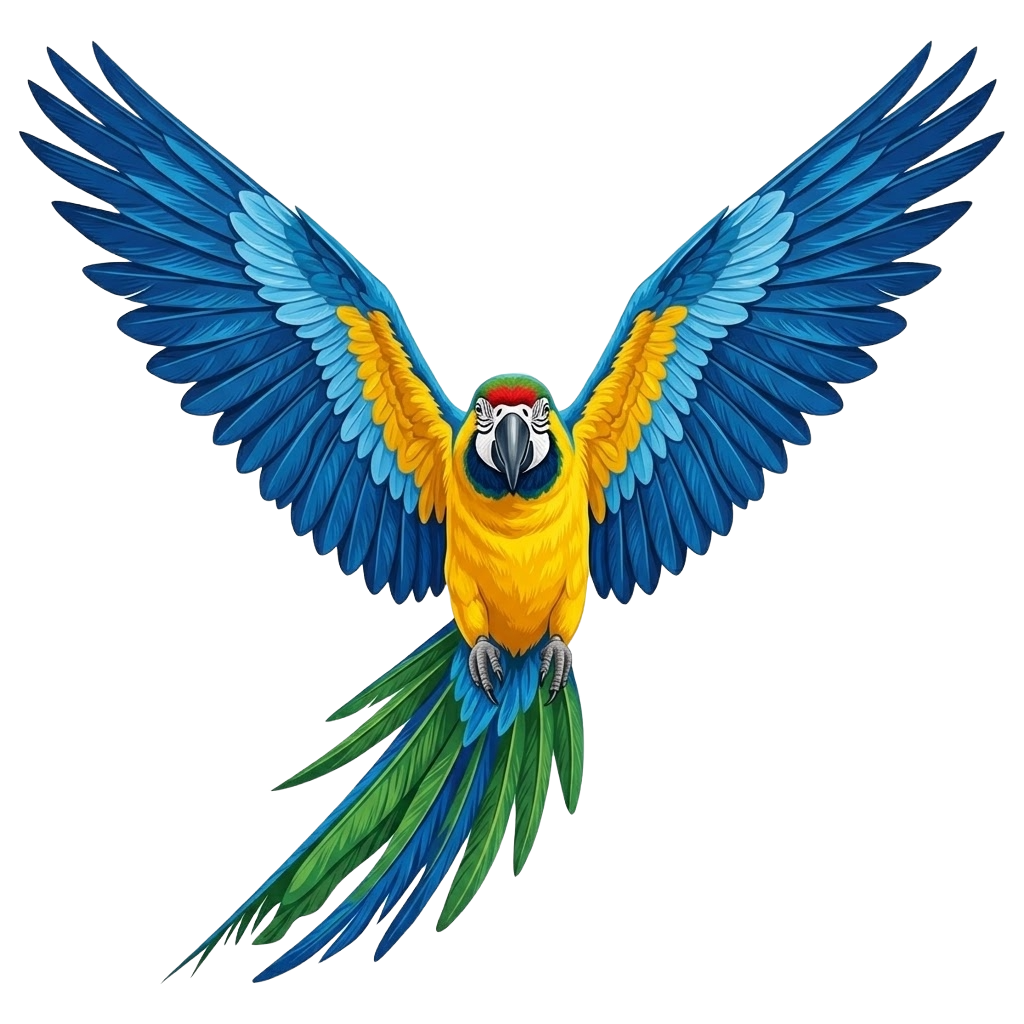
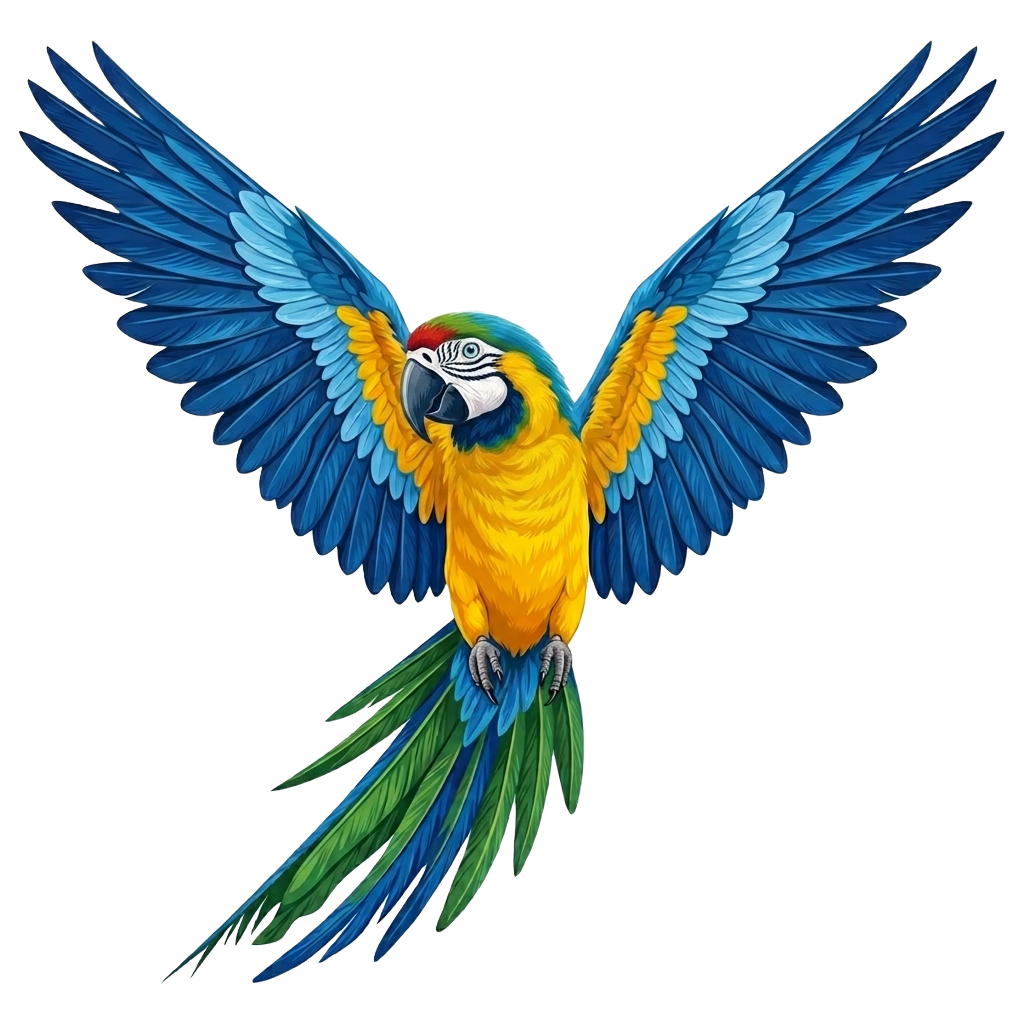
Ajustes

Changed region(s): [[0.375, 0.2812, 0.625, 0.5312], [0.5312, 0.625, 0.5625, 0.6875], [0.4688, 0.625, 0.5, 0.6562]]

diff --git a/OLD-06AGOindex.html b/OLD-06AGOindex.html
@@ -576,10 +576,6 @@
       background:linear-gradient(135deg,#ede9fe,#fce7f3,#e0f2fe);
     }
 
-    .atajo-semillas .atajo-icono{
-      background:linear-gradient(135deg,#dcfce7,#e0f2fe,#ede9fe);
-    }
-
     .atajo-proximo .atajo-icono{
       background:#f8fafc;
     }
@@ -1119,20 +1115,20 @@
             <span class="atajo-flecha">→</span>
           </a>
 
+          <a class="atajo atajo-pro atajo-escritora" href="mi-universo/escritora/">
+            <span class="atajo-icono">✍</span>
+            <span class="atajo-texto">
+              <strong>Mi Rincón de Escritura</strong>
+              <small>Crear y guardar historias</small>
+            </span>
+            <span class="atajo-flecha">→</span>
+          </a>
+
           <a class="atajo atajo-pro atajo-biblioteca" href="mi-universo/biblioteca/">
             <span class="atajo-icono">📚</span>
             <span class="atajo-texto">
               <strong>Biblioteca Encantada</strong>
               <small>Registrar libros y reseñas</small>
-            </span>
-            <span class="atajo-flecha">→</span>
-          </a>
-
-          <a class="atajo atajo-pro atajo-semillas" href="mi-universo/creciendo-por-dentro/">
-            <span class="atajo-icono">🌱</span>
-            <span class="atajo-texto">
-              <strong>Creciendo por Dentro</strong>
-              <small>Comprender lo que siento y fortalecer mi voz</small>
             </span>
             <span class="atajo-flecha">→</span>
           </a>

diff --git a/mi-universo/mi-camino/index.html b/mi-universo/mi-camino/index.html
@@ -1374,7 +1374,7 @@
 
           <img
             class="guacamaya guacamaya--dos"
-            src="../../assets/identidad/guacamayas/guacamaya-azul-posada-02.png"
+            src="../../assets/identidad/guacamayas/guacamaya-azul-posada-02_frente.png"
             alt=""
           >
         </div>
